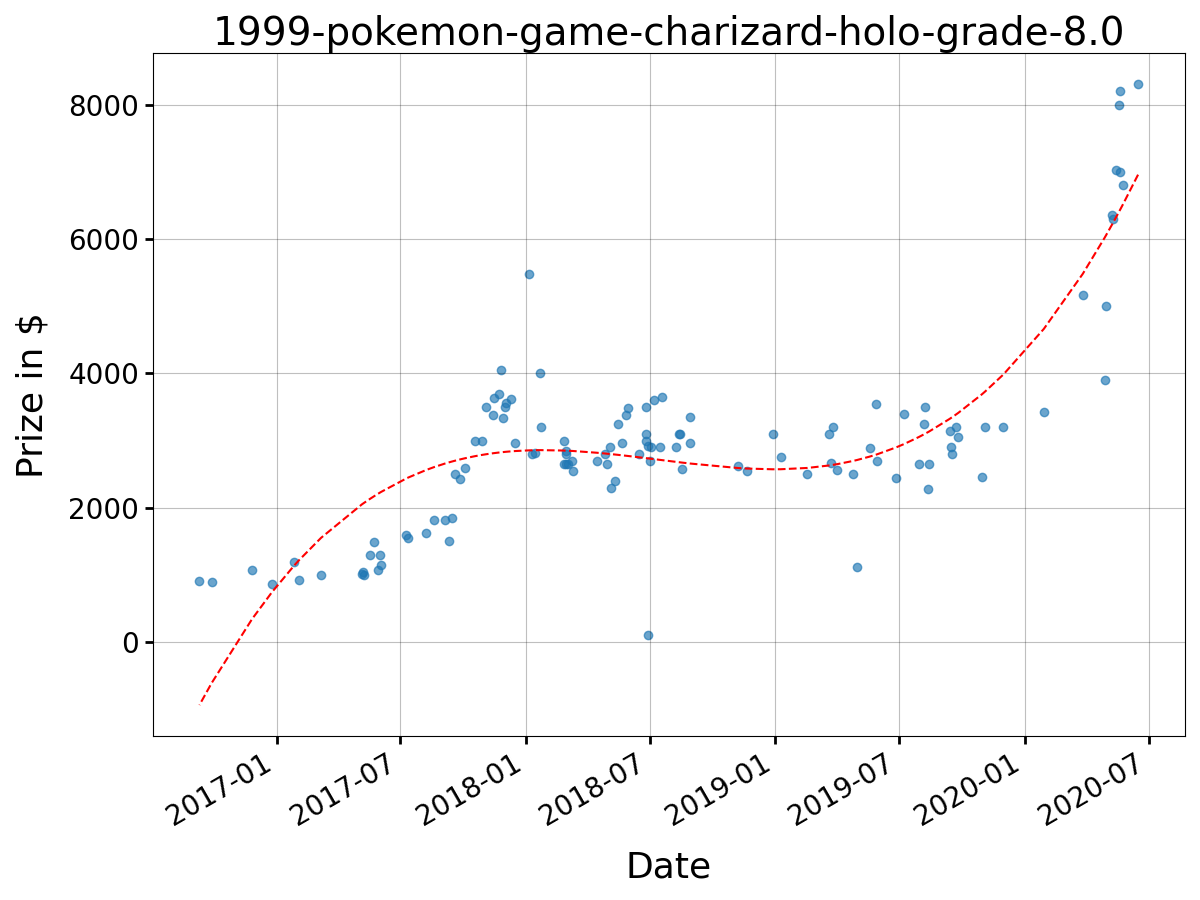
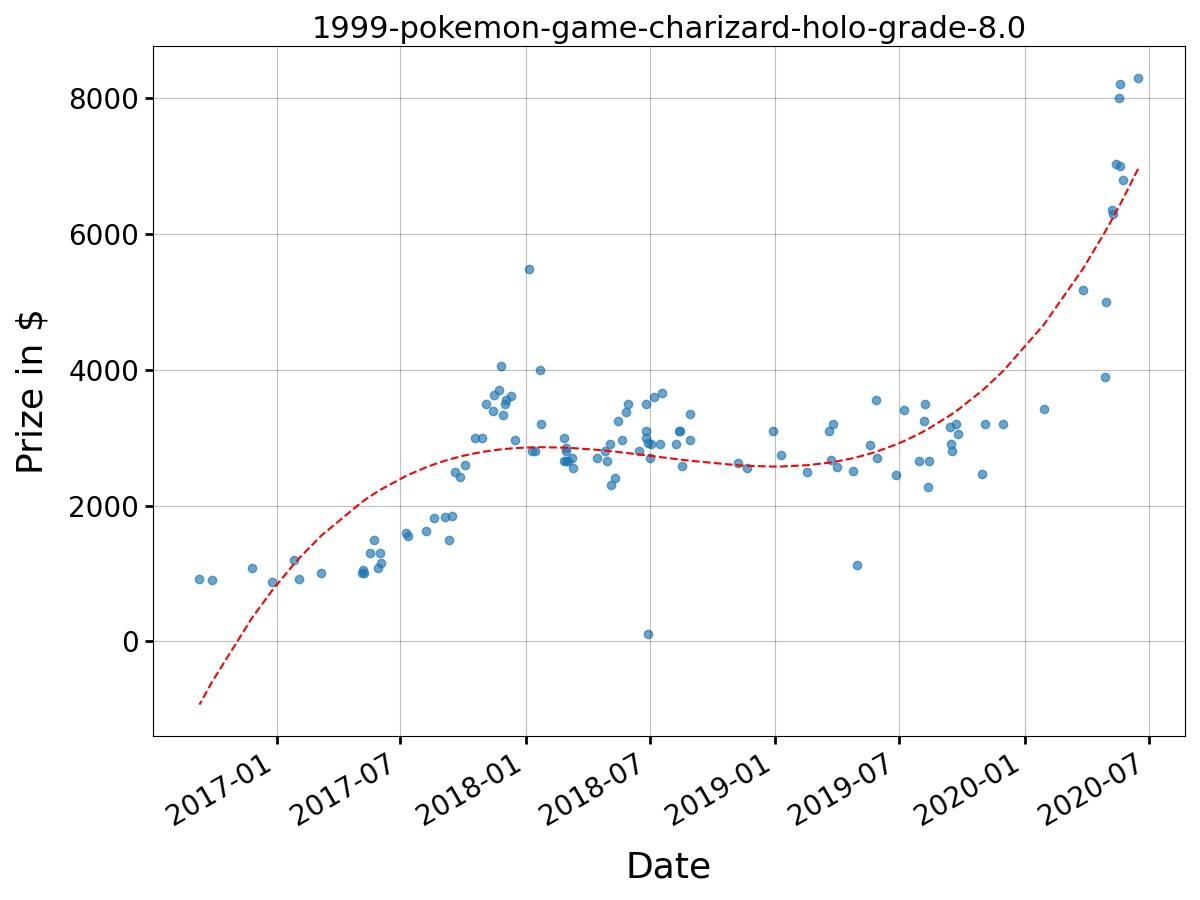
analyze looks good enough

diff --git a/src/psa_prizes/analyze.py b/src/psa_prizes/analyze.py
@@ -1,16 +1,16 @@
-"""Analysis tools"""
+"""Analysis tools."""
 import os
-
-import numpy as np
-import pandas as pd
-import matplotlib.pyplot as plt
-import matplotlib.dates as mdates
+from typing import Any, List, Union
 
 from IPython import display
+import matplotlib.dates as mdates
+import matplotlib.pyplot as plt
+import numpy as np
+import pandas as pd
 
-def analyze(grades, show_data = False):
+
+def analyze(grades: List[Union[float, int]], show_data: bool = False) -> None:
     """Print info messages and plot prize timeline."""
-
     # Create output folder for pictures
     if not os.path.exists("output/img"):
         os.makedirs("output/img")
@@ -25,18 +25,18 @@ def analyze(grades, show_data = False):
         # Get card_name from urls
         card_name = _get_card_name(url)
 
-        df = pd.read_csv(f'output/data/{card_name}.csv', parse_dates=["date"])
+        df = pd.read_csv(f"output/data/{card_name}.csv", parse_dates=["date"])
 
         # Important: Parse col as str because one str may convert the whole col to str
         df["grade"] = df["grade"].astype(str)
-        grades = [str(float(g)) for g in grades]
+        grades_str: List[str] = [str(float(g)) for g in grades]
 
         if show_data is True:
             display(df)
         else:
             pass
 
-        for g in grades:
+        for g in grades_str:
 
             _msg_unusual_grades(df, g)
 
@@ -46,68 +46,79 @@ def analyze(grades, show_data = False):
 
             _msg_avg_ann_growth(df_fil)
 
-            fig = _scatter_prize_time(df_fil, f'{card_name}-grade-{g}')
+            _scatter_prize_time(df_fil, f"{card_name}-grade-{g}")
 
-            path = f'output/img/{card_name}-grade-{g}.png'
-            print(f'– Find the graph for the above info in {path}')
+            path = f"output/img/{card_name}-grade-{g}.png"
+            print(f"– Find the graph for the above info in {path}")
 
             plt.savefig(path)
             plt.show()
 
-# Iterate over all urls
-def _msg_unusual_grades(df, grade):
+
+def _msg_unusual_grades(df: pd.DataFrame, grade: str) -> None:
     """Print the number of unusual grades."""
     grades = np.arange(0, 10.5, 0.5).astype(float)
     catch_grades = []
-    for item in df['grade']:
+    for item in df["grade"]:
         try:
             if float(item) not in grades:
                 catch_grades.append(item)
         except ValueError:
             catch_grades.append(item)
 
-    print(f'– Over all grades, {len(catch_grades)} of {len(df)} cards do not receive standard grades.'
-          f' These grades are in {set(catch_grades)}')
+    print(
+        f"– Over all grades, {len(catch_grades)} of {len(df)} cards do not receive"
+        f"standard grades. These grades are in {set(catch_grades)}"
+    )
 
 
-def _msg_n_grade(df, grade):
+def _msg_n_grade(df: pd.DataFrame, grade: str) -> None:
     """Print the number of cards with grade `grade`."""
     n_cards = len(df)
-    n_grade = len(df[(df['grade']) == grade])
+    n_grade = len(df[(df["grade"]) == grade])
     perc = round((n_grade / n_cards) * 100, 2)
 
-    print(f'– The number of cards with grade {grade} is {n_grade} of {n_cards} cards. That is {perc}%.')
+    print(
+        f"– The number of cards with grade {grade} is {n_grade} "
+        f"of {n_cards} cards. That is {perc}%."
+    )
 
 
-def _filter_grade_data(df, grade):
+def _filter_grade_data(df: pd.DataFrame, grade: str) -> pd.DataFrame:
     """Reduce df to date and price data for cards with grade `grade`."""
-    df = df[(df['grade']) == grade]
+    df = df[(df["grade"]) == grade]
     df = df[["date", "prize"]]
 
     return df
 
 
-def _msg_avg_ann_growth(df):
+def _msg_avg_ann_growth(df: pd.DataFrame) -> None:
     """Print the average annual prize growth."""
-    df['year'] = pd.DatetimeIndex(df['date']).year
-    df['avg_prize_in_year'] = df.groupby('year')['prize'].transform('mean')
+    df["year"] = pd.DatetimeIndex(df["date"]).year
+    df["avg_prize_in_year"] = df.groupby("year")["prize"].transform("mean")
 
     # Create pd.DataFrame for annual average prizes
-    years = df['year'].drop_duplicates()
-    prizes = df['avg_prize_in_year'].drop_duplicates()
-    avg_df = pd.DataFrame({'year': years, 'prize': prizes})
-    avg_df['perc_change'] = avg_df['prize'].pct_change(-1)
+    years = df["year"].drop_duplicates()
+    prizes = df["avg_prize_in_year"].drop_duplicates()
+    avg_df = pd.DataFrame({"year": years, "prize": prizes})
+    avg_df["perc_change"] = avg_df["prize"].pct_change(-1)
 
     # Delete first year to allow for NaNs if not enough obs
-    avg_df = avg_df[avg_df['year'] != min(avg_df['year'])]
+    avg_df = avg_df[avg_df["year"] != min(avg_df["year"])]
 
     # Compute average annual growth rate in percent
     g = round(avg_df["perc_change"].mean() * 100, 2)
 
     if np.isnan(g):
-        print('– Cannot compute average annual prize growth rate. Perhaps not enough observations.')
+        print(
+            "– Cannot compute average annual prize growth rate. "
+            "Perhaps not enough observations."
+        )
     else:
-        print(f'– The average annual prize growth rate from {min(years)} to {max(years)} is {g}%.')
+        print(
+            f"– The average annual prize growth rate from {min(years)} "
+            f"to {max(years)} is {g}%."
+        )
 
 
 def _get_card_name(card_url: str) -> str:  # noqa: D102
@@ -115,9 +126,9 @@ def _get_card_name(card_url: str) -> str:  # noqa: D102
     return c_name
 
 
-def _scatter_prize_time(df, title):
-    x = mdates.date2num(df['date'])
-    y = df['prize']
+def _scatter_prize_time(df: pd.DataFrame, title: str) -> Any:
+    x = mdates.date2num(df["date"])
+    y = df["prize"]
 
     fig, ax = plt.subplots(figsize=(12, 9))
 
@@ -126,21 +137,17 @@ def _scatter_prize_time(df, title):
     # Draw red trend line
     fit = np.polyfit(x, y, deg=4)
     p = np.poly1d(fit)
-    ax.plot(x, p(x), 'r--')
+    ax.plot(x, p(x), "r--")
 
     # Rotate date labels
     fig.autofmt_xdate()
 
-    ax.grid(linestyle="-", color='black', alpha=0.25)
+    ax.grid(linestyle="-", color="black", alpha=0.25)
     ax.tick_params(length=6, width=2, labelsize=20)
-    ax.set_title(title, fontsize=28)
-    ax.set_xlabel(xlabel='Date', size=26, labelpad=14)
-    ax.set_ylabel(ylabel='Prize in $', size=26, labelpad=14)
+    ax.set_title(title, fontsize=22)
+    ax.set_xlabel(xlabel="Date", size=26, labelpad=14)
+    ax.set_ylabel(ylabel="Prize in $", size=26, labelpad=14)
 
     fig.tight_layout()
 
     return fig
-
-os.chdir('../..')
-analyze([8, 9])
-

diff --git a/src/psa_prizes/scrape.py b/src/psa_prizes/scrape.py
@@ -2,7 +2,6 @@
 
 import math
 import os
-import sys
 import time
 from typing import Any, List, Tuple, Union
 
@@ -12,7 +11,7 @@ import requests
 
 
 def parse_scrape_store() -> None:
-    """Parse urls to `scrape_psa_prizes and store as .csv-files."""
+    """Parse urls to `scrape_psa_prizes` and store as .csv-files."""
     # Read in urls from urls.txt
     if not os.path.exists("input/urls.txt"):
         raise ValueError("no input url passed and 'urls.txt' not found")
@@ -114,10 +113,12 @@ def _get_sale_dates(soup: Any) -> List[str]:  # noqa: D102
     return dates
 
 
-def _get_grades(soup: Any) -> Tuple[List[Union[str, float]], List[Union[str, float]]]:  # noqa: D102
-    """It is important for parsing that grades are mainly floats and not strings."""
+def _get_grades(
+    soup: Any
+) -> Tuple[List[Union[str, float]], List[Union[str, float]]]:  # noqa: D102
+    """Prefer grades as floats not strings. One str converts whole col to str."""
     grade_data = soup.find_all("div", {"class": "item item-grade"})
-    grades: List[str] = []
+    grades: List[Union[str, float]] = []
     quals: List[Union[str, float]] = []
     for n in grade_data:
         html = str(n)
@@ -178,4 +179,3 @@ def _get_psa_certs(soup: Any) -> List[int]:  # noqa: D102
 def _get_file_name(card_url: str) -> str:  # noqa: D102
     f_name = card_url.split("-cards/")[1].split("/values")[0].replace("/", "-")
     return "{}.csv".format(os.path.join("output/data", f_name))
-

diff --git a/src/psa_prizes/__init__.py b/src/psa_prizes/__init__.py
@@ -4,6 +4,7 @@ This module imports all functions to make them easily callable for the end user.
 """
 
 from psa_prizes.scrape import *
+from psa_prizes.analyze import *
 
 
 # Automate package version update.
